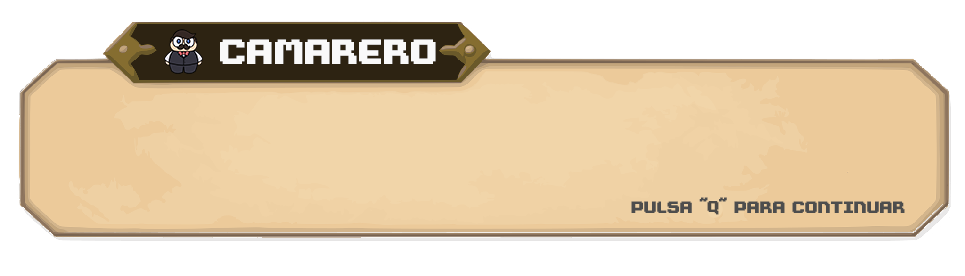
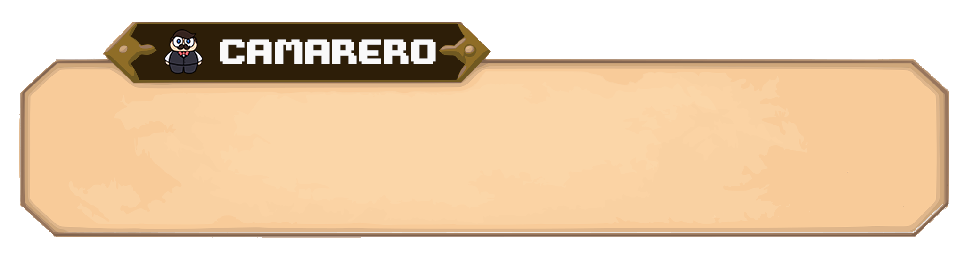
Tutorial a falta de dialogos  y bugs de comandas

Changed region(s): [[0.1244, 0.8406, 0.9016, 0.8986], [0.6528, 0.7246, 0.9326, 0.7826]]

diff --git a/Scenes/Tutorial.cpp b/Scenes/Tutorial.cpp
@@ -40,7 +40,9 @@ Tutorial::Tutorial(Game* game, string tilemap) : Scene(game)
 
 	uiManager->addInterfaz(new Reloj(game, -1));
 	uiManager->addInterfaz(cuadroTexto);
+	uiManager->addInterfaz(cuadradoPlay);
 	cuadroTexto->setActive(false);
+	cuadradoPlay->setActive(false);
 	uiManager->addInterfaz(text);
 	text->setActive(false);
 
@@ -49,7 +51,7 @@ Tutorial::Tutorial(Game* game, string tilemap) : Scene(game)
 
 	changeState(pausaInicio);
 
-	uiManager->addInterfaz(rC);
+	uiManager->setRedactaboton(rC);
 	uiManager->setBarra(lC);
 	rC->setActive(false);
 	lC->setActive(false);
@@ -72,6 +74,13 @@ void Tutorial::handleInput(bool& exit)
 		continua = true;
 	else if (ih().getKey(InputHandler::X) && paused && !textMngr->terminadoParrado() && !textMngr->vaRapido())
 		textMngr->cambiaVelocidad(true);
+	if (ih().getKey(InputHandler::Y) && currentState==abreLibreta) {
+		if (uiManager->getComanda() == nullptr)
+			uiManager->creaComanda(game);
+		else 
+			uiManager->getComanda()->toggleactive();
+		
+	}
 }
 
 void Tutorial::update()
@@ -154,16 +163,18 @@ void Tutorial::changeState(States state_)
 				i->setActive(true);
 			break;
 		}
-		case 28: {
+		case 24: {
+			for (auto i : objectManager->getVentanilla())
+				i->setActive(true);
 			cuadroTexto->setTexture("cuadroTextoCocinera");
 			break;
 		}
-		case 36: {
+		case 30: {
 			objectManager->getLavavajillas()->setActive(true);
 			cuadroTexto->setTexture("cuadroTextoCamarero");
 			break;
 		}
-		case 40: {
+		case 34: {
 			objectManager->getPlayerOne()->changePlayer(true);
 			cuadroTexto->setTexture("cuadroTextoCocinera");
 			break;
@@ -417,6 +428,12 @@ void Tutorial::loadMap(string const& path)
 					f->setActive(false);
 
 				}
+				else if (name == "vEncimera") {
+					Encimera* e = new Encimera(game, position);
+					getObjectManager()->addMueble(e);
+					getObjectManager()->addVentanilla(e);
+					e->setActive(false);
+				}
 				else if (name == "lavavajillas") {
 					Lavavajillas* l = new Lavavajillas(game, position);
 					getObjectManager()->addMueble(l);
@@ -472,7 +489,7 @@ void Tutorial::loadMap(string const& path)
 					getObjectManager()->addMueble(e);
 					getObjectManager()->addEncimera(e);
 					e->setActive(false);
-				}
+				}				
 				else if (name == "arroz") {
 					BolsaArroz* b = new BolsaArroz(game, position);
 					getObjectManager()->addMueble(b);
@@ -578,6 +595,7 @@ void Tutorial::nextStates()
 void Tutorial::desactivaCuadro()
 {
 	textMngr->desactivaTexto();
+	cuadradoPlay->setActive(false);
 	textMngr->cambiaVelocidad(false);
 	cuadroTexto->setActive(false);
 	text->setActive(false);
@@ -587,6 +605,8 @@ void Tutorial::desactivaCuadro()
 void Tutorial::activaCuadro(string texto_)
 {
 	cuadroTexto->setActive(true);
+	if(ih().isMandoActive())
+		cuadradoPlay->setActive(true);
 	if (textMngr->desactivado())textMngr->activaTexto(sdlutils().dialogs().at(texto_));
 	else if (textMngr->terminadoParrado() && !textMngr->esUltimoParrafo() && continua) {
 		textMngr->cambiaVelocidad(false);

diff --git a/Data/Comanda.cpp b/Data/Comanda.cpp
@@ -69,7 +69,6 @@ Comanda::Comanda(Game* game, uint escala, UIManager* uim,bool enVentanilla_) :Ga
 	escritoY = margensuperior;
 	//teclado inicial igualq eu lso magenes y eso para resetear la comanda bien
 	 //creamos las psiciones de los botones del teclado
-	enVentanilla = enVentanilla_;
 }
 Comanda::Comanda(Comanda& c) : GameObject(c.game)
 {
@@ -645,14 +644,44 @@ void Comanda::toggleactive()
 	setActive(!isActive());
 	//ih().setFocused(isActive());
 
-	if (isActive())//activando comanda
+	if(!isActive()) {
+		setActive(true);
+		for (auto b : botones)
+		{
+			b->setActive(false);
+		}
+
+		toggleTecaldotam(false);
+		toggleTeclado(false);
+		toggleTecladonum(false);
+		uiManager->addTween(-56.0f, -200.0f, 500.0f, true).via(easing::quadraticOut).onStep(
+			[this](tweeny::tween<float>& t, float) mutable
+			{
+				y = t.peek();
+				if (t.progress() == 1.0f)
+				{  
+					sdlutils().soundEffects().at("guardarComandas").play(0, game->UI);
+
+					setActive(false);
+					cancelaPedido();
+					if (focusedbutton != nullptr)
+						focusedbutton->setunfocused();
+					focusedbutton = nullptr;
+					focusedzone = -1;
+					indexfocus = -1;
+					return true;
+				}
+				return false;
+			});;
+	}
+	else //activando comanda
 	{
 		uiManager->addTween(-200.0f, -56.0f, 500.0f, true).via(easing::quadraticOut).onStep(
 			[ this](tweeny::tween<float>& t, float) mutable {
 				
 					y=t.peek();
 
-				if (t.progress() == 1.0f) {
+				if (t.progress() == 1.0f && isActive()) {
 					
 					sdlutils().soundEffects().at("sacarComandas").play(0, game->UI);
 					for (auto b : botones)
@@ -677,38 +706,6 @@ void Comanda::toggleactive()
 			});;
 		
 	}
-	else//desactivando comanda
-	{
-		setActive(true);
-		for (auto b : botones)
-		{
-			b->setActive(false);
-		}
-
-		toggleTecaldotam(false);
-		toggleTeclado(false);
-		toggleTecladonum(false);
-		uiManager->addTween(-56.0f, -200.0f, 500.0f, true).via(easing::quadraticOut).onStep(
-			[this](tweeny::tween<float>& t, float) mutable 
-			{
-				y = t.peek();
-				if (t.progress() == 1.0f) 
-				{
-					sdlutils().soundEffects().at("guardarComandas").play(0, game->UI);
-				
-					setActive(false);
-					cancelaPedido();
-					if (focusedbutton != nullptr)
-						focusedbutton->setunfocused();
-					focusedbutton = nullptr;
-					focusedzone = -1;
-					indexfocus = -1;
-					return true;
-				}
-				return false;
-			});;
-	}
-
 	
 	//cout << "togleando active"; 
 }
@@ -769,11 +766,11 @@ void Comanda::pressSelectedButton()
 }
 void Comanda::cambiazonafoco()
 {
-	if (focusedzone == 1)//cambio del teclado a la ui comandas
+	if (focusedzone == 0)//cambio del teclado a la ui comandas
 	{
 		activeTeclado = botones;
 		changeActiveTeclado();
-		focusedzone = 0;
+		focusedzone = 1;
 	}
 	else
 	{
@@ -795,7 +792,7 @@ void Comanda::cambiazonafoco()
 			changeActiveTeclado();
 
 		}
-		focusedzone = 1;
+		focusedzone = 0;
 	}
 }
 void Comanda::siguientebotonfocus(int dir)

diff --git a/Scenes/Tutorial.h b/Scenes/Tutorial.h
@@ -31,7 +31,7 @@ class Tutorial : public Scene
 	const float LERP_INTERPOLATION = 0.2f;
 
 	vector<string> textos = { "texto1" ,"texto2", "texto3","texto4","texto5","texto6","texto7","texto8","texto9","texto10",
-		"texto11","texto12","texto13","texto14","texto15","texto16","texto17","texto18","texto19","texto20","texto21", "texto22"};
+		"texto11","texto12","texto13","texto14","texto15","texto16","texto17","texto18","texto19","texto20"};
 
 	MapInfo mapInfo;
 
@@ -42,11 +42,13 @@ class Tutorial : public Scene
 	Vector2D<double> positionCocinera;
 
 	Imagen* cuadroTexto = new Imagen(game, sdlutils().width() / 2, sdlutils().height() - 100, sdlutils().width()/1.5, 250, "cuadroTextoCocinera");
+	Imagen* cuadradoPlay = new Imagen(game, 990, sdlutils().height() - 35, 20, 25, "cuadradoPlay");
 
 	RedactaComandabutton* rC = new RedactaComandabutton(game, uiManager, "redactaboton", 10, 10, 30, 30);
 	ListaComandas* lC = new ListaComandas(game, uiManager);
 
 	ShowText* text = new ShowText(game, " ", "abadiNombre", sdlutils().width() / 2, sdlutils().height() - 100);
+	
 
 
 public:
@@ -68,8 +70,6 @@ public:
 	void nextStates();
 	void activaCuadro(string texto_);
 	void desactivaCuadro();
-
-	void cambiaPlayer(bool c);
 
 };
 

diff --git a/Scenes/Scene.h b/Scenes/Scene.h
@@ -17,7 +17,7 @@ class Player;
 enum States {
 	cogerClientes,pausaClientes, dejarClientesMesa,pausaPaellas,abreLibreta,pauasAbreLibreta,apuntaPedido ,pausaPedido, cogePaellera,pausaCogePaellera, dejaPaellera,pausaDejaPaella,cogerDejarArroz,pausaCogerDejarArroz,arreglarCinta,pausaArreglarCinta, cogerIngrediente,pausaCogerIngrediente,
 	procesarIngrediente,pausaProcesarIngrediente, dejarIngredientePaella,pausaDejarIngredientes, cocinarPaella,pausaCocinarPaella, recogerPaellaCocinada,pausaRecogerPaellaCocinada,
-	dejarPaellaVentanilla,pausaDejarPaellVentanilla,cogerPaellaVentanilla,pausaCogerPaellaVentanilla,darDeComer,pausaDarDeComer,sacarCuenta,pausaSacarCuenta,echarClientes,pausaEcharClientes,recogerMesa,pausaRecogerMesa,dejarLavavajillas,pausaDejarLavavajillas,
+	darDeComer,pausaDarDeComer,sacarCuenta,pausaSacarCuenta,echarClientes,pausaEcharClientes,recogerMesa,pausaRecogerMesa,dejarLavavajillas,pausaDejarLavavajillas,
 	cogerLavavajillas,pausaCogerLavavajillas,dejarPaellaPila,pausaFinal,final, pausaComandaEquivocada,pausaBorrarComanda,pausaNoEcharClientes,pausaInicio
 };
 

diff --git a/Scenes/Jornada.cpp b/Scenes/Jornada.cpp
@@ -83,9 +83,9 @@ Jornada::Jornada(Game* game, string tilemap, int numeroJornada, bool host_) : Sc
 
 	// camara init
 	camara = new Camera(*new Vector2D<float>(0, 16), sdlutils().width(), sdlutils().height());
-	auto but = new RedactaComandabutton(game, uiManager, "redactaboton", 100, 20, 130, 60);
-	uiManager->addInterfaz(but);
-	uiManager->setRedactaboton(but);
+	redactaBut = new RedactaComandabutton(game, uiManager, "redactaboton", 100, 20, 130, 60);
+	uiManager->addInterfaz(redactaBut);
+	uiManager->setRedactaboton(redactaBut);
 	uiManager->addInterfaz(new Imagen(game, 50, 20, 40, 40, "R"));
 	uiManager->setBarra(new ListaComandas(game, uiManager));
 
@@ -125,13 +125,13 @@ void Jornada::handleInput(bool& exit)
 
 	if (ih().getKey(InputHandler::Y)) {
 		if (uiManager->getComanda() == nullptr) {
+			sdlutils().soundEffects().at("sacarComandas").play(0, game->UI);
 			uiManager->creaComanda(game);
-			getObjectManager()->getPlayerOne()->changeEnComanda(true);
 		}
 		else {
 			uiManager->getComanda()->toggleactive();
 		}
-		
+		redactaBut->Swichposition();
 	}
 }
 

diff --git a/Control/ObjectManager.h b/Control/ObjectManager.h
@@ -54,7 +54,7 @@ class ObjectManager
 	vector<Silla*> sillas;
 	vector<Mesa*> mesas;
 	vector<Encimera*> encimeras;
-	vector<Ventanilla*> ventanillas;
+	vector<Encimera*> ventanillas;
 	vector<Cinta*> cintas;
 	vector<Pila*> pilas;
 	vector<Fogon*> fogones;
@@ -86,7 +86,7 @@ public:
 	void addFinCinta(FinalCinta* f);
 	void addSilla(Silla* s);
 	void addMesa(Mesa* m);
-	void addVentanilla(Ventanilla* v);
+	void addVentanilla(Encimera* v);
 	void addEncimera(Encimera* e);
 	void addCinta(Cinta* c);
 	void addCartel(Cartel* c);
@@ -101,7 +101,7 @@ public:
 	vector<Silla*> getSillas();
 	vector<Mesa*> getMesas();
 	vector<Encimera*> getEncimeras();
-	vector<Ventanilla*> getVentanilla();
+	vector<Encimera*> getVentanilla();
 	vector<Cinta*> getCintas();
 	vector<Pila*> getPilas();
 	vector<Fogon*> getFogones();

diff --git a/GameObjects/UI/UIManager.cpp b/GameObjects/UI/UIManager.cpp
@@ -492,24 +492,10 @@ void UIManager::creaComanda(Game* game)
 	actual->guardaBoton(enviaComandaButton);
 	actual->setActive(false);
 	actual->toggleactive();
-	//actual->toggleactive();
 
 	if (dynamic_cast<Tutorial*>(game->getCurrentScene()) && game->getCurrentScene()->getState() == States::abreLibreta)
 		game->getCurrentScene()->changeState(States::pauasAbreLibreta);
 
-}
-
-void UIManager::creaComandaVentanilla(Game* game) {
-	actual = new Comanda(game, uiscale, this,true);
-	comandas.push_back(actual);
-
-	enVentanilla = true;
-
-	creaTeclado();
-	actual->guardaTeclado();
-
-	actual->toggleactive();
-	actual->toggleactive();
 }
 
 Comanda* UIManager::getComanda()

diff --git a/Control/TextManager.h b/Control/TextManager.h
@@ -4,6 +4,7 @@
 #include "../../sdlutils/Font.h"
 #include "../Utils/Texture.h"
 #include "../sdlutils/SDLUtils.h"
+#include "../GameObjects/Imagen.h"
 #include <vector>
 
 using namespace std;
@@ -39,10 +40,11 @@ public:
 private:
 
 	VirtualTimer* vt;
-
 	Game* game;
 	string fuenteLetra, dialogo_, ultimoCaracter;
 	vector<string> lineas;
+
+
 
 	bool terminado=true, dialogoTerminado=true,ultimoParrafo,desactivado_=true, rapido=false,pausa = false;
 	int offsetYLinea,tiempoCreaccionLetra, numeroLinea,anchoLetra, alturaLetra, anchoTexto;;

diff --git a/Control/ObjectManager.cpp b/Control/ObjectManager.cpp
@@ -200,7 +200,7 @@ void ObjectManager::addMesa(Mesa* m)
 	mesas.push_back(m);
 }
 
-void ObjectManager::addVentanilla(Ventanilla* v)
+void ObjectManager::addVentanilla(Encimera * v)
 {
 	ventanillas.push_back(v);
 }
@@ -271,7 +271,7 @@ vector<Encimera*> ObjectManager::getEncimeras()
 	return encimeras;
 }
 
-vector<Ventanilla*> ObjectManager::getVentanilla()
+vector<Encimera*> ObjectManager::getVentanilla()
 {
 	return ventanillas;
 }

diff --git a/Data/ListaComandas.cpp b/Data/ListaComandas.cpp
@@ -118,7 +118,7 @@ void ListaComandas::finalizacomanda(Comanda* comanda)
 {
 	
 
-	if (dynamic_cast<Tutorial*>(game->getCurrentScene()) && game->getCurrentScene()->getState()<cogerPaellaVentanilla){
+	if (dynamic_cast<Tutorial*>(game->getCurrentScene()) && game->getCurrentScene()->getState()<darDeComer){
 
 		game->getCurrentScene()->changeState(pausaBorrarComanda);
 	}

diff --git a/Scenes/Jornada.h b/Scenes/Jornada.h
@@ -49,6 +49,8 @@ class Jornada : public Scene
 
 	double puntuacionTotal;
 
+	RedactaComandabutton* redactaBut;
+
 	Vector2D<int> tamRestaurante = Vector2D<int>(0, 1216);
 	Vector2D<double> positionCamarero;
 	Vector2D<double> positionCocinera;
